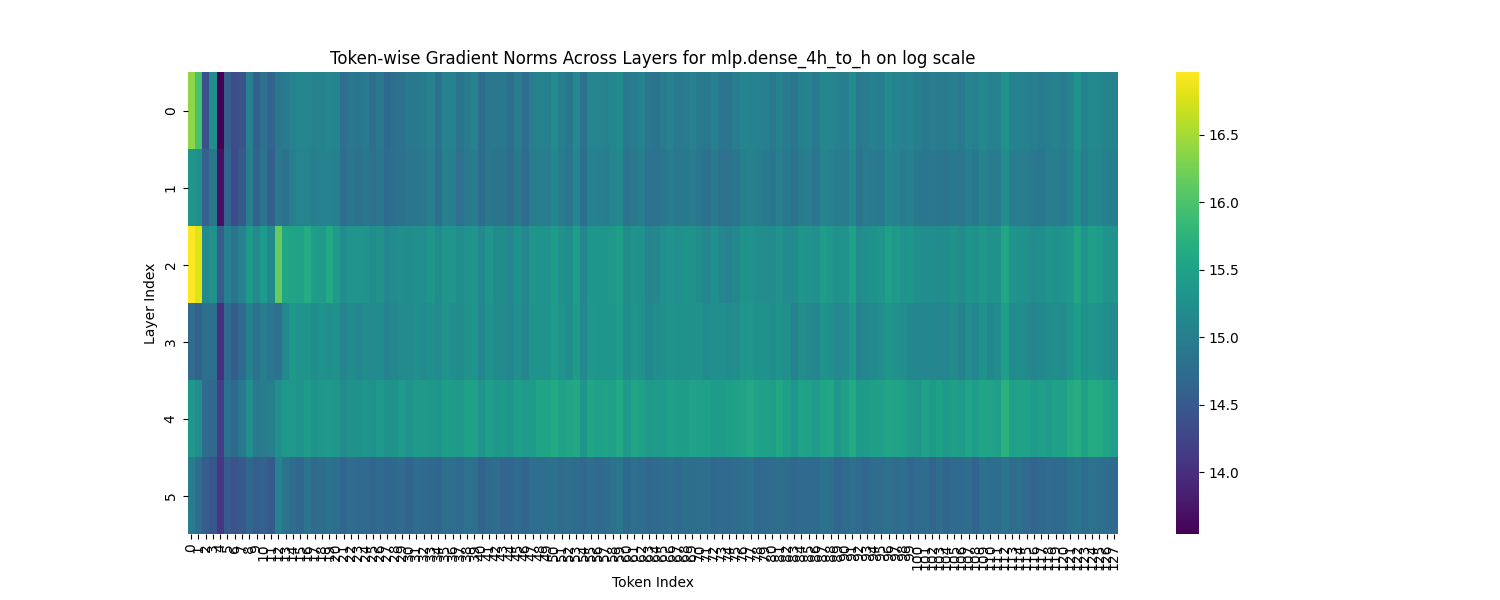
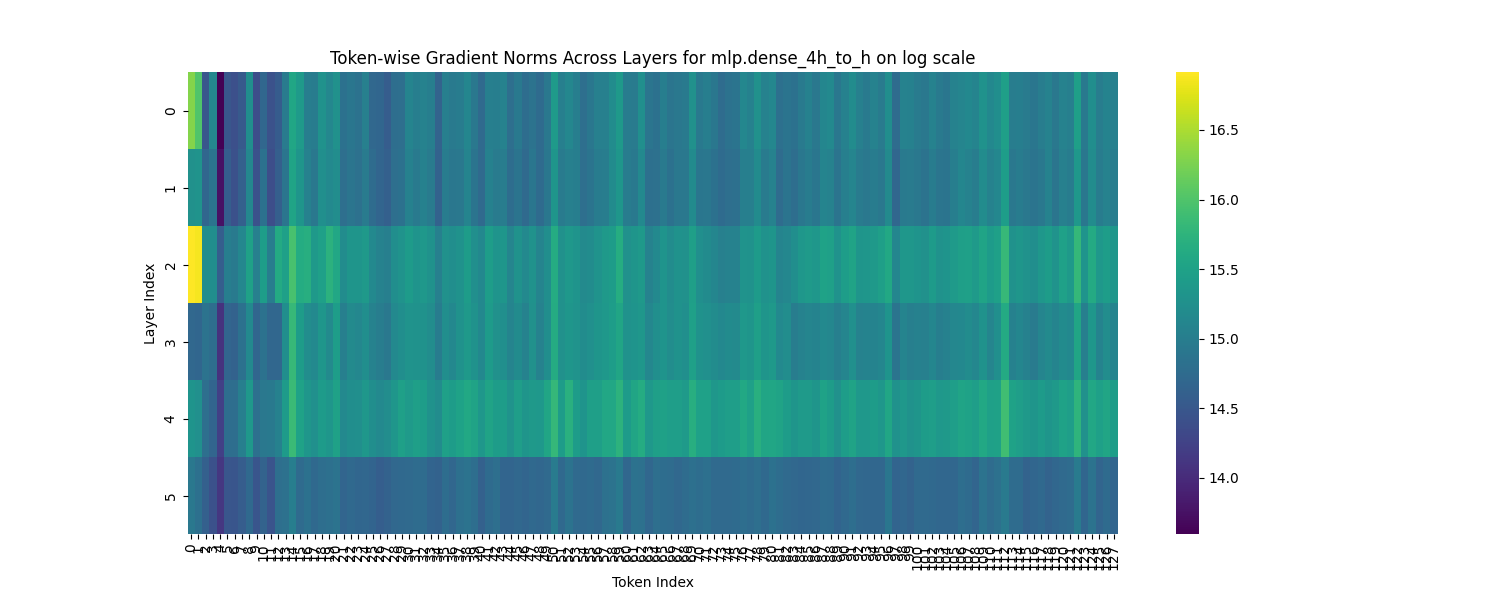
trail code for gradient optimizataion.

diff --git a/grad.py b/grad.py
@@ -43,6 +43,16 @@ class Gradient_MLP:
         elif self.dataset_name == "alpaca":
             self.max_length = 10
         
+        self.model.gpt_neox.embed_in.requires_grad = False
+        for layer in self.model.gpt_neox.layers:
+            for param in layer.parameters():
+                param.requires_grad = False
+            for param in layer.mlp.dense_4h_to_h.parameters():
+                param.requires_grad = True
+            for param in layer.attention.dense.parameters():
+                param.requires_grad = True
+
+        
     def forward(self):
         
         final_data = []
@@ -57,8 +67,7 @@ class Gradient_MLP:
             outputs = self.model(**inputs)
             logits = outputs.logits
             loss = logits.sum()  # Example loss
-
-
+            
             # Iterate over each token
             for token_idx in range(inputs["input_ids"].shape[1]):  # Loop over the sequence length (tokens)
                 self.model.zero_grad()  # Clear any previous gradients
